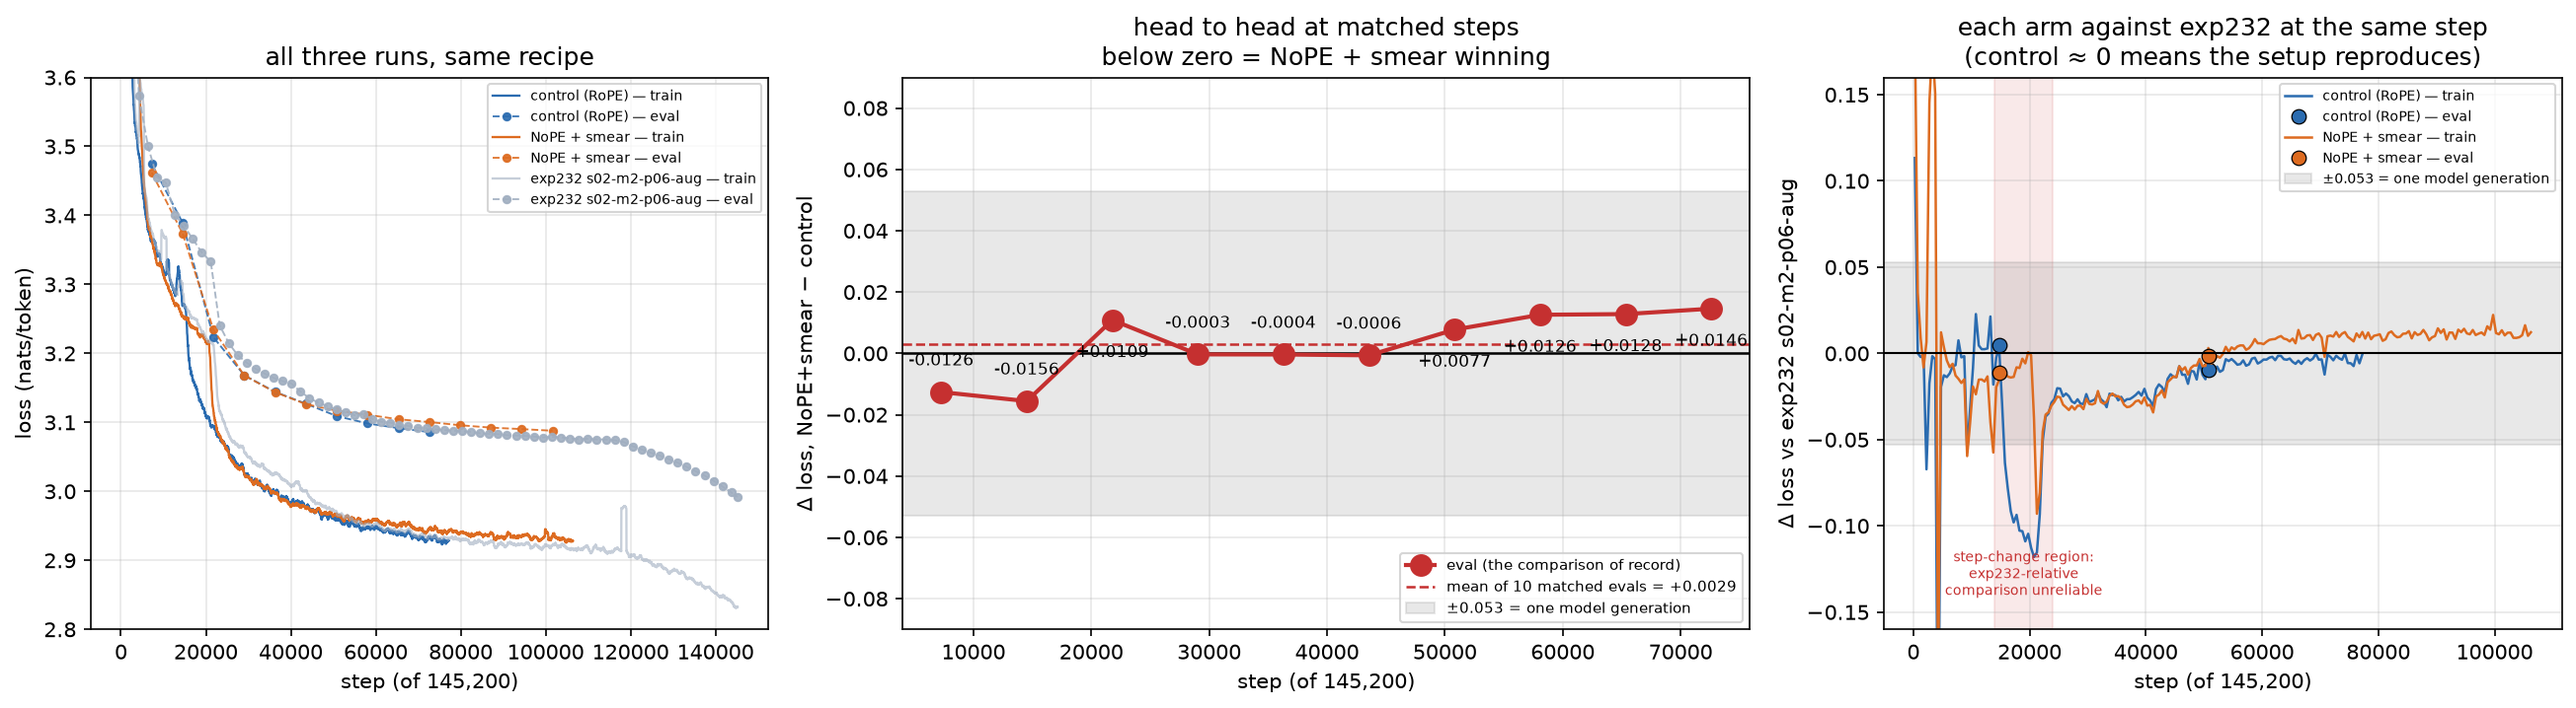
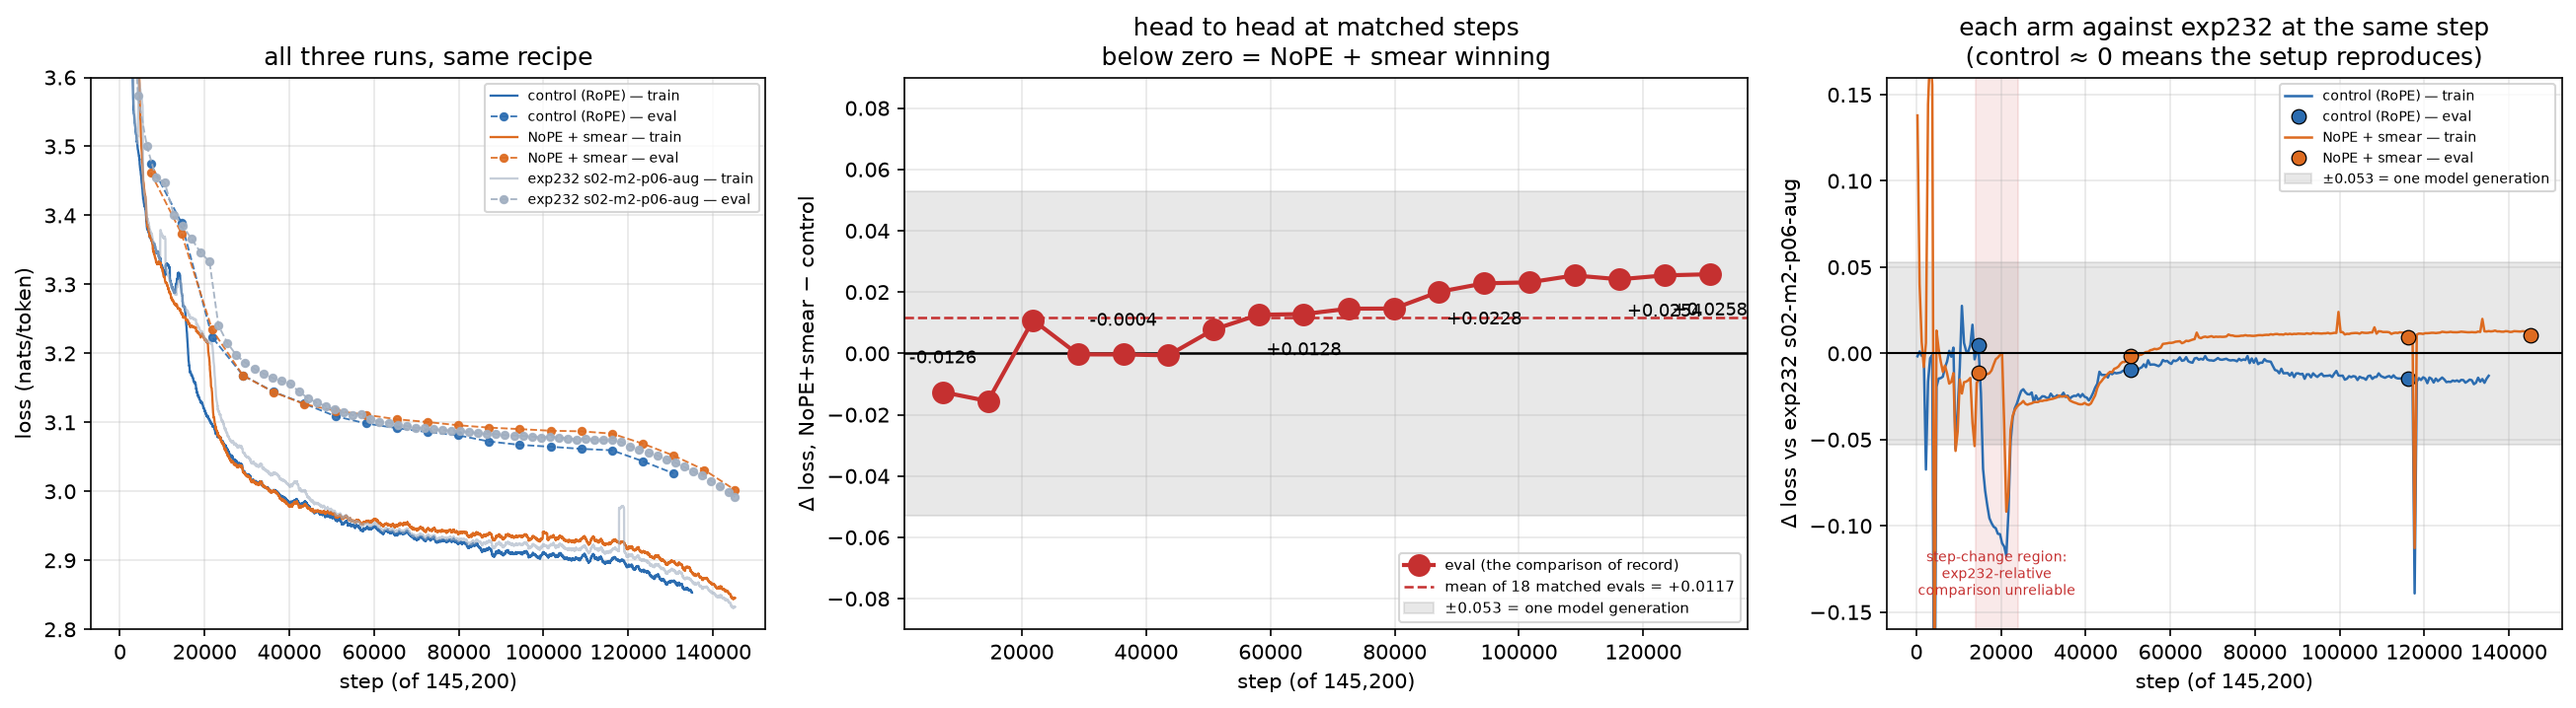
exp262: NoPE arm finished; the gap has plateaued at about +0.025
The NoPE + smear run completed all 145,200 steps (62.75h, one preemption
recovered) at final eval 3.0021, against exp232's 2.9918. The control is at
92.8% and its last four matched evals sit at +0.0254, +0.0242, +0.0254, +0.0258
— a stable deficit of about half a model generation, in the wrong direction.

Also thins the eval labels in the head-to-head panel; a full run's worth of
points every one of which is labelled is unreadable.

diff --git a/experiments/exp262_models_nope_token_smearing/plot_full_runs.py b/experiments/exp262_models_nope_token_smearing/plot_full_runs.py
@@ -136,9 +136,14 @@ def main() -> None:
     if len(matched):
         direct.plot(matched, deltas.values, "o-", color="#c53030", markersize=10,
                     linewidth=2.0, zorder=3, label="eval (the comparison of record)")
-        for step, value in zip(matched, deltas.values):
+        # Label sparsely: with a full run's worth of evals every point labelled
+        # is an unreadable pile.
+        marks = list(zip(matched, deltas.values))
+        for index, (step, value) in enumerate(marks):
+            if index % 4 and index != len(marks) - 1:
+                continue
             direct.annotate(f"{value:+.4f}", (step, value), textcoords="offset points",
-                            xytext=(0, 13 if value < 0 else -18), ha="center", fontsize=8)
+                            xytext=(0, 14 if value < 0 else -20), ha="center", fontsize=8.5)
         mean = float(deltas.mean())
         direct.axhline(mean, color="#c53030", linestyle="--", linewidth=1.2,
                        label=f"mean of {len(deltas)} matched evals = {mean:+.4f}")
